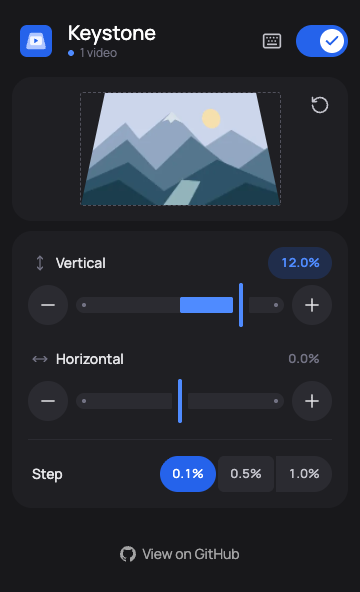
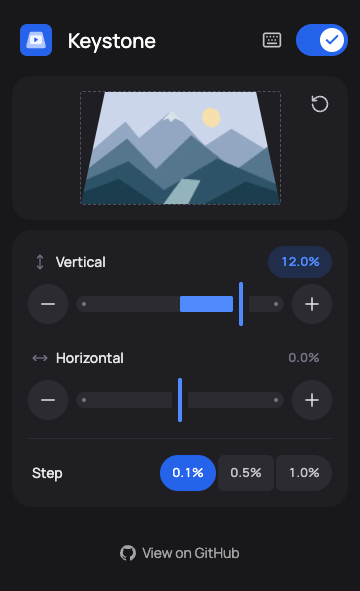
fix step corners and remove page status

diff --git a/src/popup/components/Header.tsx b/src/popup/components/Header.tsx
@@ -2,7 +2,6 @@ import cn from 'classnames';
 import { Keyboard } from 'lucide-react';
 import type { FC } from 'react';
 import type { HeaderProps } from 'src/popup/types/header';
-import { getStatusDotClass, getStatusLabel } from 'src/popup/utils/pageStatus';
 import { t } from 'src/shared/services/i18n';
 import { openShortcutsPage } from 'src/shared/services/tabs';
 
@@ -10,15 +9,9 @@ import Logo from 'src/assets/icons/logo.svg?react';
 import IconButton from 'src/popup/components/IconButton';
 import Switch from 'src/popup/components/Switch';
 import Tooltip from 'src/popup/components/Tooltip';
-import { PageStatusKind } from 'src/popup/enums/pageStatus';
 import { TooltipAlign, TooltipPlacement } from 'src/popup/enums/tooltip';
 
-const Header: FC<HeaderProps> = ({
-    isEnabled,
-    status,
-    toggleShortcut,
-    onToggle,
-}) => {
+const Header: FC<HeaderProps> = ({ isEnabled, toggleShortcut, onToggle }) => {
     const toggleLabel = t(
         isEnabled ? 'disable_correction' : 'enable_correction'
     );
@@ -37,29 +30,6 @@ const Header: FC<HeaderProps> = ({
                     <h1 className="text-[20px] font-medium leading-tight">
                         {t('app_title')}
                     </h1>
-                    <div
-                        className="flex min-w-0 items-center gap-1.5"
-                        title={
-                            status.kind === PageStatusKind.Unavailable
-                                ? t('page_unavailable_hint')
-                                : undefined
-                        }
-                    >
-                        <span
-                            aria-hidden
-                            className={cn(
-                                'size-1.5 shrink-0 rounded-full',
-                                getStatusDotClass(status, isEnabled)
-                            )}
-                        />
-                        <span
-                            role="status"
-                            aria-live="polite"
-                            className="truncate text-[12px] leading-4 text-black-400"
-                        >
-                            {getStatusLabel(status, t)}
-                        </span>
-                    </div>
                 </div>
             </div>
 

diff --git a/src/popup/components/StepSelector.tsx b/src/popup/components/StepSelector.tsx
@@ -27,7 +27,7 @@ const StepSelector: FC<StepSelectorProps> = ({ value, onChange }) => {
                             onChange={() => onChange(step)}
                             className="peer sr-only"
                         />
-                        <span className="flex h-9 min-w-14 items-center justify-center rounded-md bg-black-600 px-3 text-[13px] font-medium tabular-nums text-black-200 transition-all duration-200 ease-[cubic-bezier(0.2,0,0,1)] hover:bg-black-500 peer-checked:rounded-full peer-checked:bg-blue-accent peer-checked:text-white peer-focus-visible:outline-2 peer-focus-visible:outline-offset-2 peer-focus-visible:outline-blue-light [label:first-child_&]:rounded-l-full [label:last-child_&]:rounded-r-full">
+                        <span className="flex h-9 min-w-14 items-center justify-center rounded-md bg-black-600 px-3 text-[13px] font-medium tabular-nums text-black-200 transition-all duration-200 ease-[cubic-bezier(0.2,0,0,1)] hover:bg-black-500 peer-checked:rounded-[18px] peer-checked:bg-blue-accent peer-checked:text-white peer-focus-visible:outline-2 peer-focus-visible:outline-offset-2 peer-focus-visible:outline-blue-light [label:first-child_&]:rounded-l-[18px] [label:last-child_&]:rounded-r-[18px]">
                             {formatPercent(step)}
                         </span>
                     </label>

diff --git a/src/popup/App.tsx b/src/popup/App.tsx
@@ -26,7 +26,6 @@ const App: FC = () => {
         <main className="flex min-h-[480px] w-[360px] flex-col bg-background p-3 pt-5 text-white">
             <Header
                 isEnabled={settings.enabled}
-                status={pageStatus}
                 toggleShortcut={shortcuts[Command.Toggle]}
                 onToggle={() => update({ enabled: !settings.enabled })}
             />

diff --git a/src/popup/types/header.ts b/src/popup/types/header.ts
@@ -1,8 +1,5 @@
-import type { PageStatus } from 'src/popup/types/page';
-
 export type HeaderProps = {
     isEnabled: boolean;
-    status: PageStatus;
     toggleShortcut?: string;
     onToggle: () => void;
 };

diff --git a/src/shared/types/i18n.ts b/src/shared/types/i18n.ts
@@ -1,5 +1,3 @@
 import type messages from 'public/_locales/en/messages.json';
 
 export type I18nKey = keyof typeof messages;
-
-export type Translate = (key: I18nKey, substitutions?: string[]) => string;

diff --git a/docs/DESIGN.md b/docs/DESIGN.md
@@ -1,6 +1,6 @@
 # Visual identity
 
-The popup is the baseline and is not being restyled. Its existing Manrope typography, dark surfaces and blue controls remain intact.
+The popup is the baseline and is not being restyled. Its existing Manrope typography, dark surfaces and blue controls remain intact. Video counts and page-support status are not displayed in the popup.
 
 External branding uses the Material 3 idea of a clear silhouette, rounded geometry and a tonal primary/container pairing. A rounded square contains a projected trapezoid and a smaller, squared screen. The negative space describes the correction; no text or fine detail is required inside the icon.
 
@@ -9,3 +9,5 @@ The source of truth is `src/assets/icons/logo.svg`. The master uses a 108-unit g
 Primary: `#2563EB`. Primary container: `#DCE5FF`. Foreground: `#F2F5FF`. Ink: `#172554`. Promotional backgrounds use `#101D3B` and `#DCE5FF`. Flat tones, no gradients or drop shadows in the mark.
 
 The store uses one main composition: projector-focused copy on the left and a large screenshot of the actual popup on the right. Small, marquee and social images repeat that structure, shortening the copy where necessary. Use the existing tonal blue background and Manrope. Show the whole popup; do not add a fabricated browser or player around it. The thumbnail inside the popup comes from the original local video fixture. Sources and export instructions live in `store/README.md`, and the editable composition is `store/promo/template.html`.
+
+The step selector is 36px high: use 18px outer caps and selected corners, with 6px inner corners on unselected segments. Avoid mixing an oversized full radius with small radii on the same element. Keep the focused segment above its neighbors so its outline stays visible.

diff --git a/docs/ARCHITECTURE.md b/docs/ARCHITECTURE.md
@@ -76,7 +76,7 @@ Disposal disconnects observers and listeners, cancels timers, restores video sty
 
 ## Popup and frame injection
 
-Hooks connect React state to services; components receive typed props and render the existing approved UI. Pure view helpers accept translation functions or other runtime choices as arguments.
+Hooks connect React state to services; components receive typed props and render the existing approved UI. Pure view helpers receive aspect ratios, slider values and captured frame data as explicit inputs. Page availability is used internally for preview loading; video counts and support-status labels are not rendered.
 
 `popup/services/scripting.ts` implements the all-frames request with top-frame fallback. Counting and snapshot services reuse that policy. `popup/injected/countVideos.ts` and `captureVideo.ts` contain the functions passed to `chrome.scripting.executeScript`.
 
